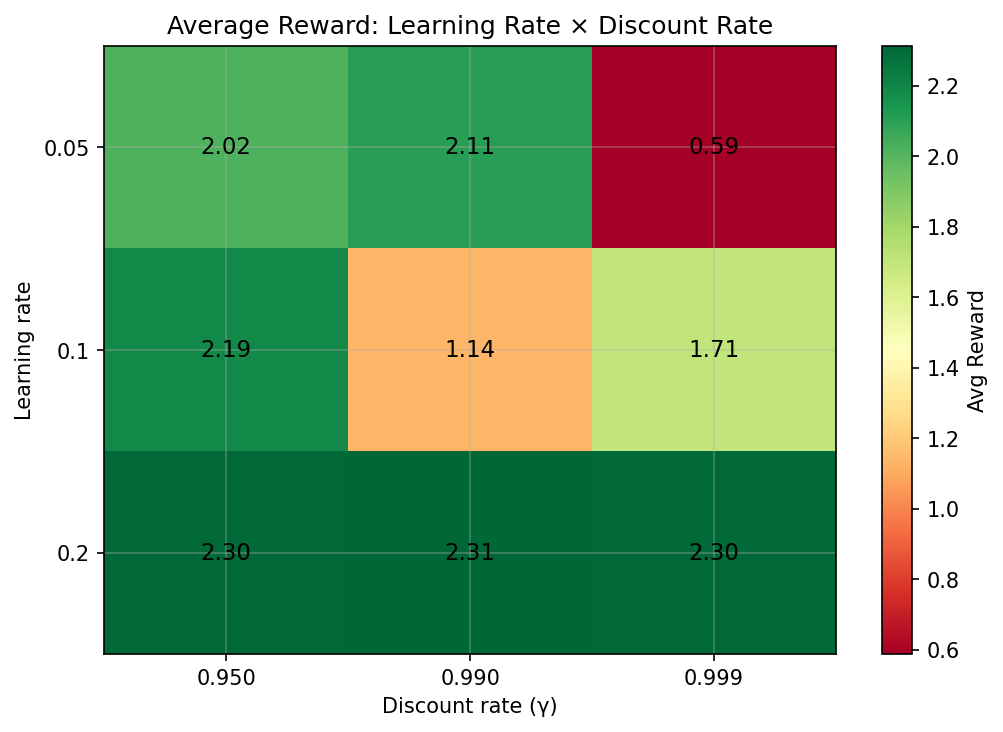
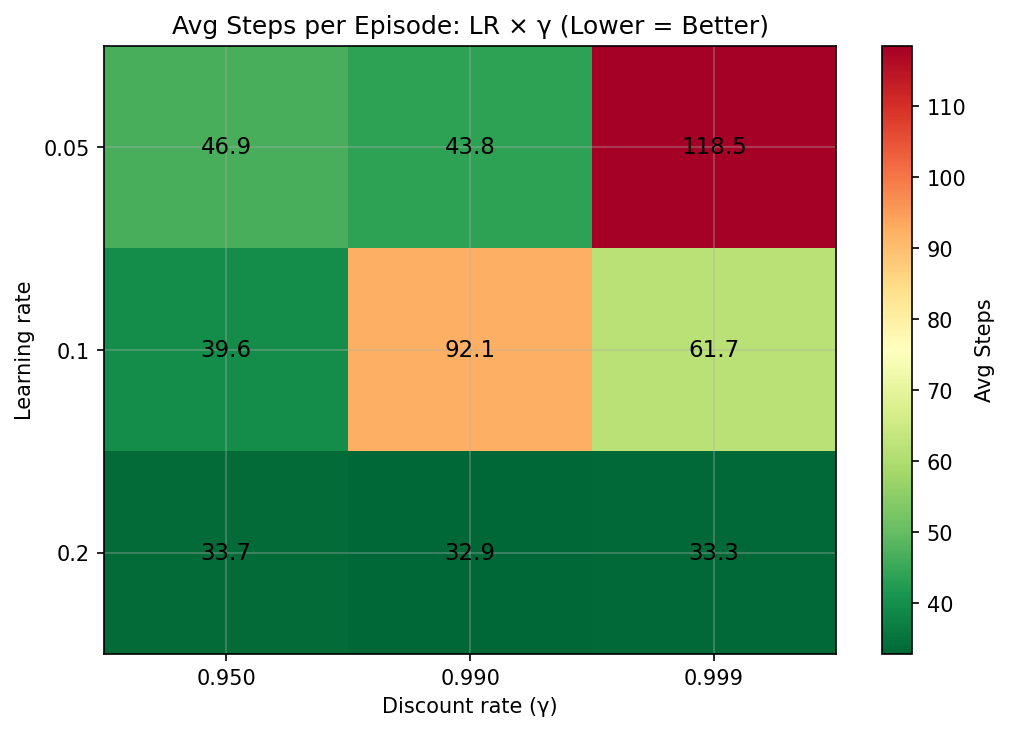
fixed plots

diff --git a/visualize_hyperparam_results.py b/visualize_hyperparam_results.py
@@ -1,6 +1,6 @@
 """
-Visualize hyperparameter sweep results from hyperparameter_results/ folder.
-Grid: 3 learning rates × 3 discount rates for Q-learning (random_negative, performance_based, manhattan).
+Visualize hyperparameter sweep results using Steps per Episode (convergence rate).
+Grid: learning rates × discount rates. Lower steps = better.
 """
 
 import os
@@ -22,39 +22,39 @@ OUTPUT_DIR = "hyperparameter_visualizations"
 
 
 def load_hyperparam_data(results_root=RESULTS_ROOT):
-    """Load all runs from hyperparameter_results, extracting lr/gamma from config."""
+    """Load all runs, extracting lr/gamma from config. Requires episode_steps for curves."""
     data = []
     for root, _, files in os.walk(results_root):
-        if "summary.npy" in files and "rewards.npy" in files and "config.yaml" in files:
-            try:
-                config_path = os.path.join(root, "config.yaml")
-                with open(config_path, "r") as f:
-                    config = yaml.safe_load(f)
-                hp = config.get("hyperparameters", {})
-                lr = hp.get("learning_rate")
-                gamma = hp.get("discount_rate")
-                if lr is None or gamma is None:
-                    continue
+        if "summary.npy" not in files:
+            continue
+        if "config.yaml" not in files:
+            continue
+        try:
+            config_path = os.path.join(root, "config.yaml")
+            with open(config_path, "r") as f:
+                config = yaml.safe_load(f)
+            hp = config.get("hyperparameters", {})
+            lr = hp.get("learning_rate")
+            gamma = hp.get("discount_rate")
+            if lr is None or gamma is None:
+                continue
 
-                rewards = np.load(os.path.join(root, "rewards.npy"))
-                summary = np.load(
-                    os.path.join(root, "summary.npy"), allow_pickle=True
-                ).item()
-
-                data.append({
-                    "path": root,
-                    "learning_rate": lr,
-                    "discount_rate": gamma,
-                    "rewards": rewards,
-                    "final_avg": summary.get("avg_reward", 0),
-                    "std_reward": summary.get("std_reward", 0),
-                    "max_reward": summary.get("max_reward", 0),
-                    "avg_steps": summary.get("avg_episode_steps", 0),
-                    "total_time": summary.get("total_time", 0),
-                    "label": f"lr={lr} γ={gamma}",
-                })
-            except Exception as e:
-                print(f"Skipping {root}: {e}")
+            summary = np.load(os.path.join(root, "summary.npy"), allow_pickle=True).item()
+            entry = {
+                "path": root,
+                "learning_rate": lr,
+                "discount_rate": gamma,
+                "avg_steps": summary.get("avg_episode_steps", np.nan),
+                "total_time": summary.get("total_time", 0),
+                "label": f"lr={lr} γ={gamma}",
+            }
+            if "episode_steps.npy" in files:
+                entry["steps"] = np.load(os.path.join(root, "episode_steps.npy"))
+            else:
+                entry["steps"] = None
+            data.append(entry)
+        except Exception as e:
+            print(f"Skipping {root}: {e}")
     return data
 
 
@@ -69,20 +69,28 @@ def _smooth(arr, window=None):
 
 
 def plot_heatmap(data):
-    """Heatmap: rows=learning_rate, cols=discount_rate."""
+    """Heatmap: LR × γ, avg steps. Lower = better (green)."""
     lrs = sorted(set(d["learning_rate"] for d in data))
     gammas = sorted(set(d["discount_rate"] for d in data))
     matrix = np.full((len(lrs), len(gammas)), np.nan)
 
     for d in data:
+        if not np.isfinite(d["avg_steps"]):
+            continue
         i = lrs.index(d["learning_rate"])
         j = gammas.index(d["discount_rate"])
-        matrix[i, j] = d["final_avg"]
+        v = d["avg_steps"]
+        if np.isnan(matrix[i, j]) or v < matrix[i, j]:
+            matrix[i, j] = v
+
+    if not np.any(np.isfinite(matrix)):
+        print("No steps data for heatmap.")
+        return
 
     fig, ax = plt.subplots(figsize=(7, 5))
-    vmin = np.nanmin(matrix) if np.any(~np.isnan(matrix)) else -2
-    vmax = np.nanmax(matrix) if np.any(~np.isnan(matrix)) else 3
-    im = ax.imshow(matrix, cmap="RdYlGn", aspect="auto", vmin=vmin, vmax=vmax)
+    valid = matrix[np.isfinite(matrix)]
+    vmin, vmax = np.min(valid), np.max(valid)
+    im = ax.imshow(matrix, cmap="RdYlGn_r", aspect="auto", vmin=vmin, vmax=vmax)
 
     ax.set_xticks(np.arange(len(gammas)))
     ax.set_yticks(np.arange(len(lrs)))
@@ -94,11 +102,11 @@ def plot_heatmap(data):
     for i in range(len(lrs)):
         for j in range(len(gammas)):
             val = matrix[i, j]
-            text = f"{val:.2f}" if not np.isnan(val) else "-"
+            text = f"{val:.1f}" if np.isfinite(val) else "-"
             ax.text(j, i, text, ha="center", va="center", fontsize=11)
 
-    ax.set_title("Average Reward: Learning Rate × Discount Rate")
-    plt.colorbar(im, ax=ax, label="Avg Reward")
+    ax.set_title("Avg Steps per Episode: LR × γ (Lower = Better)")
+    plt.colorbar(im, ax=ax, label="Avg Steps")
     plt.tight_layout()
     out = os.path.join(OUTPUT_DIR, "hyperparam_heatmap.png")
     os.makedirs(OUTPUT_DIR, exist_ok=True)
@@ -108,19 +116,21 @@ def plot_heatmap(data):
 
 
 def plot_learning_curves(data):
-    """Learning curves for each (lr, gamma) configuration."""
+    """Steps per episode over training for each (lr, γ) configuration."""
+    steps_data = [d for d in data if d.get("steps") is not None and len(d["steps"]) > 0]
+    if not steps_data:
+        print("No episode_steps.npy found. Skipping learning curves.")
+        return
+
     fig, ax = plt.subplots(figsize=(10, 6))
 
-    for d in sorted(data, key=lambda x: (x["learning_rate"], x["discount_rate"])):
-        rewards = d["rewards"]
-        if len(rewards) == 0:
-            continue
-        smoothed = _smooth(rewards)
+    for d in sorted(steps_data, key=lambda x: (x["learning_rate"], x["discount_rate"])):
+        smoothed = _smooth(d["steps"])
         ax.plot(smoothed, label=d["label"], alpha=0.85)
 
     ax.set_xlabel("Episodes")
-    ax.set_ylabel("Total Reward (smoothed)")
-    ax.set_title("Learning Curves by Hyperparameters")
+    ax.set_ylabel("Steps per Episode (Lower = Better)")
+    ax.set_title("Convergence: Steps per Episode by Hyperparameters")
     ax.legend(bbox_to_anchor=(1.02, 1), loc="upper left", fontsize=8)
     ax.set_xlim(left=0)
     plt.tight_layout()
@@ -131,22 +141,24 @@ def plot_learning_curves(data):
     print(f"Saved: {out}")
 
 
-def plot_best_configs(data, top_n=9):
-    """Bar chart of configurations ranked by final average reward."""
-    sorted_data = sorted(data, key=lambda x: x["final_avg"], reverse=True)[:top_n]
+def plot_leaderboard(data, top_n=9):
+    """Configurations ranked by avg steps (lowest = best)."""
+    sorted_data = sorted(
+        data,
+        key=lambda x: x["avg_steps"] if np.isfinite(x["avg_steps"]) else 1e9
+    )[:top_n]
     labels = [d["label"] for d in sorted_data]
-    scores = [d["final_avg"] for d in sorted_data]
+    scores = [d["avg_steps"] for d in sorted_data]
 
     fig, ax = plt.subplots(figsize=(10, max(5, top_n * 0.35)))
     y_pos = np.arange(len(labels))
-    colors = plt.cm.RdYlGn(np.linspace(0.2, 0.8, len(labels))[::-1])
+    colors = plt.cm.RdYlGn_r(np.linspace(0.2, 0.8, len(labels)))
     ax.barh(y_pos, scores, color=colors)
     ax.set_yticks(y_pos)
     ax.set_yticklabels(labels, fontsize=10)
     ax.invert_yaxis()
-    ax.set_xlabel("Average Reward")
-    ax.set_title("Hyperparameter Configurations (ranked by final avg reward)")
-    ax.axvline(x=0, color="gray", linestyle="--", alpha=0.6)
+    ax.set_xlabel("Avg Steps per Episode (Lower = Better)")
+    ax.set_title("Hyperparameter Configurations (ranked by convergence rate)")
     plt.tight_layout()
     out = os.path.join(OUTPUT_DIR, "hyperparam_leaderboard.png")
     os.makedirs(OUTPUT_DIR, exist_ok=True)
@@ -156,31 +168,31 @@ def plot_best_configs(data, top_n=9):
 
 
 def print_and_save_table(data):
-    """Print summary table and save to text file."""
+    """Summary table sorted by avg steps (ascending)."""
     sorted_data = sorted(
         data,
         key=lambda x: (x["learning_rate"], x["discount_rate"]),
     )
 
     lines = [
-        "=" * 80,
-        "HYPERPARAMETER SWEEP SUMMARY",
+        "=" * 75,
+        "HYPERPARAMETER SWEEP SUMMARY (Convergence: Steps per Episode)",
         "Q-learning | random_negative_init | performance_based | manhattan",
-        "=" * 80,
-        f"{'LR':<8} {'γ':<10} {'Avg R':<10} {'Max R':<10} {'Avg Steps':<12} {'Time(s)':<10}",
-        "-" * 80,
+        "=" * 75,
+        f"{'LR':<8} {'γ':<10} {'Avg Steps':<12} {'Time(s)':<10}",
+        "-" * 75,
     ]
     for d in sorted_data:
         lines.append(
             f"{d['learning_rate']:<8} {d['discount_rate']:<10} "
-            f"{d['final_avg']:<10.2f} {d['max_reward']:<10.2f} "
             f"{d['avg_steps']:<12.1f} {d['total_time']:<10.1f}"
         )
-    lines.append("=" * 80)
+    lines.append("=" * 75)
 
-    best = max(data, key=lambda x: x["final_avg"])
-    lines.append(f"\nBest: lr={best['learning_rate']}, γ={best['discount_rate']} -> avg_reward={best['final_avg']:.2f}")
-    lines.append("=" * 80)
+    best = min(data, key=lambda x: x["avg_steps"] if np.isfinite(x["avg_steps"]) else 1e9)
+    if np.isfinite(best["avg_steps"]):
+        lines.append(f"\nBest: lr={best['learning_rate']}, γ={best['discount_rate']} -> avg_steps={best['avg_steps']:.1f}")
+    lines.append("=" * 75)
 
     text = "\n".join(lines)
     print(text)
@@ -209,7 +221,7 @@ def main():
 
     plot_heatmap(data)
     plot_learning_curves(data)
-    plot_best_configs(data)
+    plot_leaderboard(data)
     print_and_save_table(data)
 
     print(f"\nAll visualizations saved to {OUTPUT_DIR}/")
